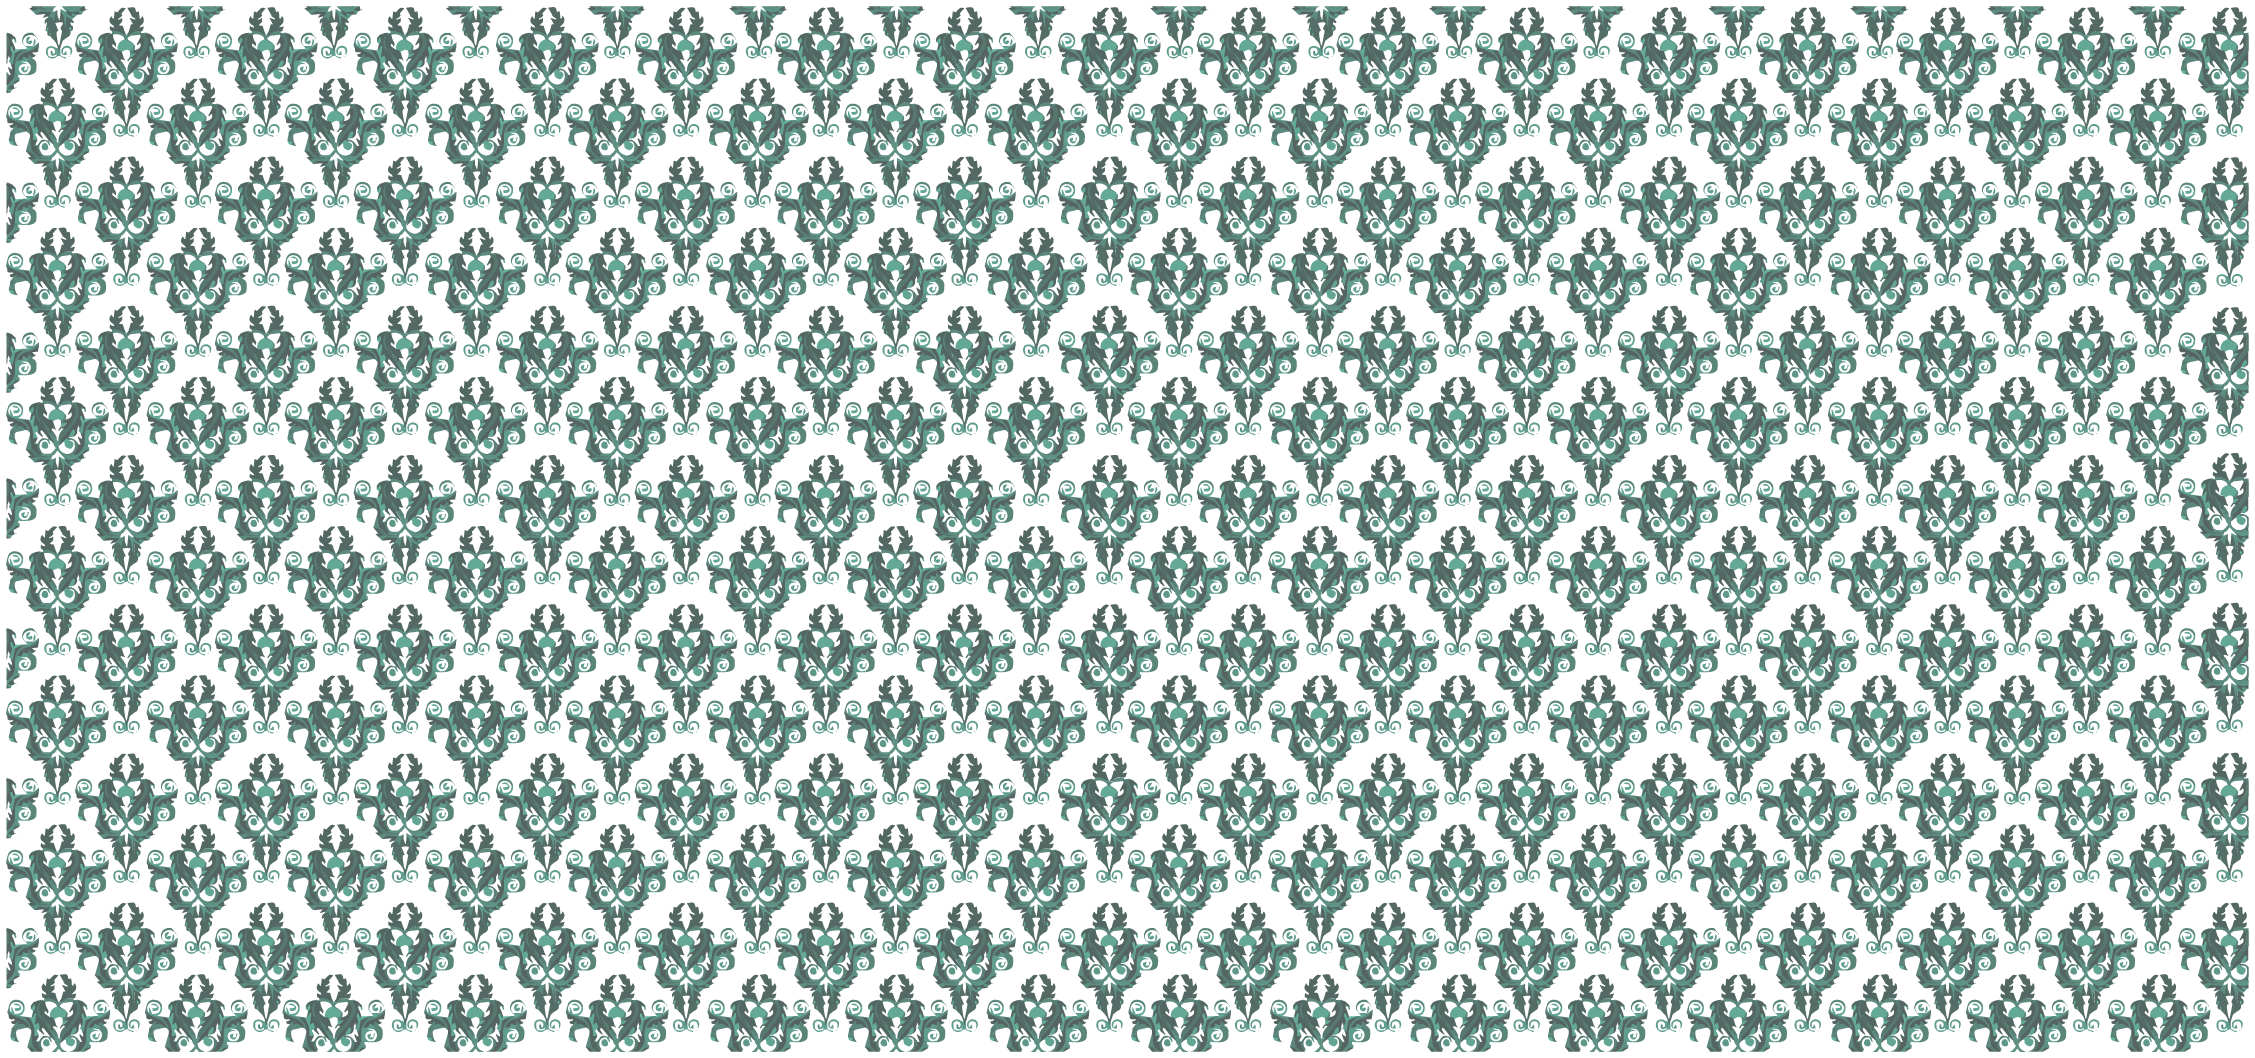
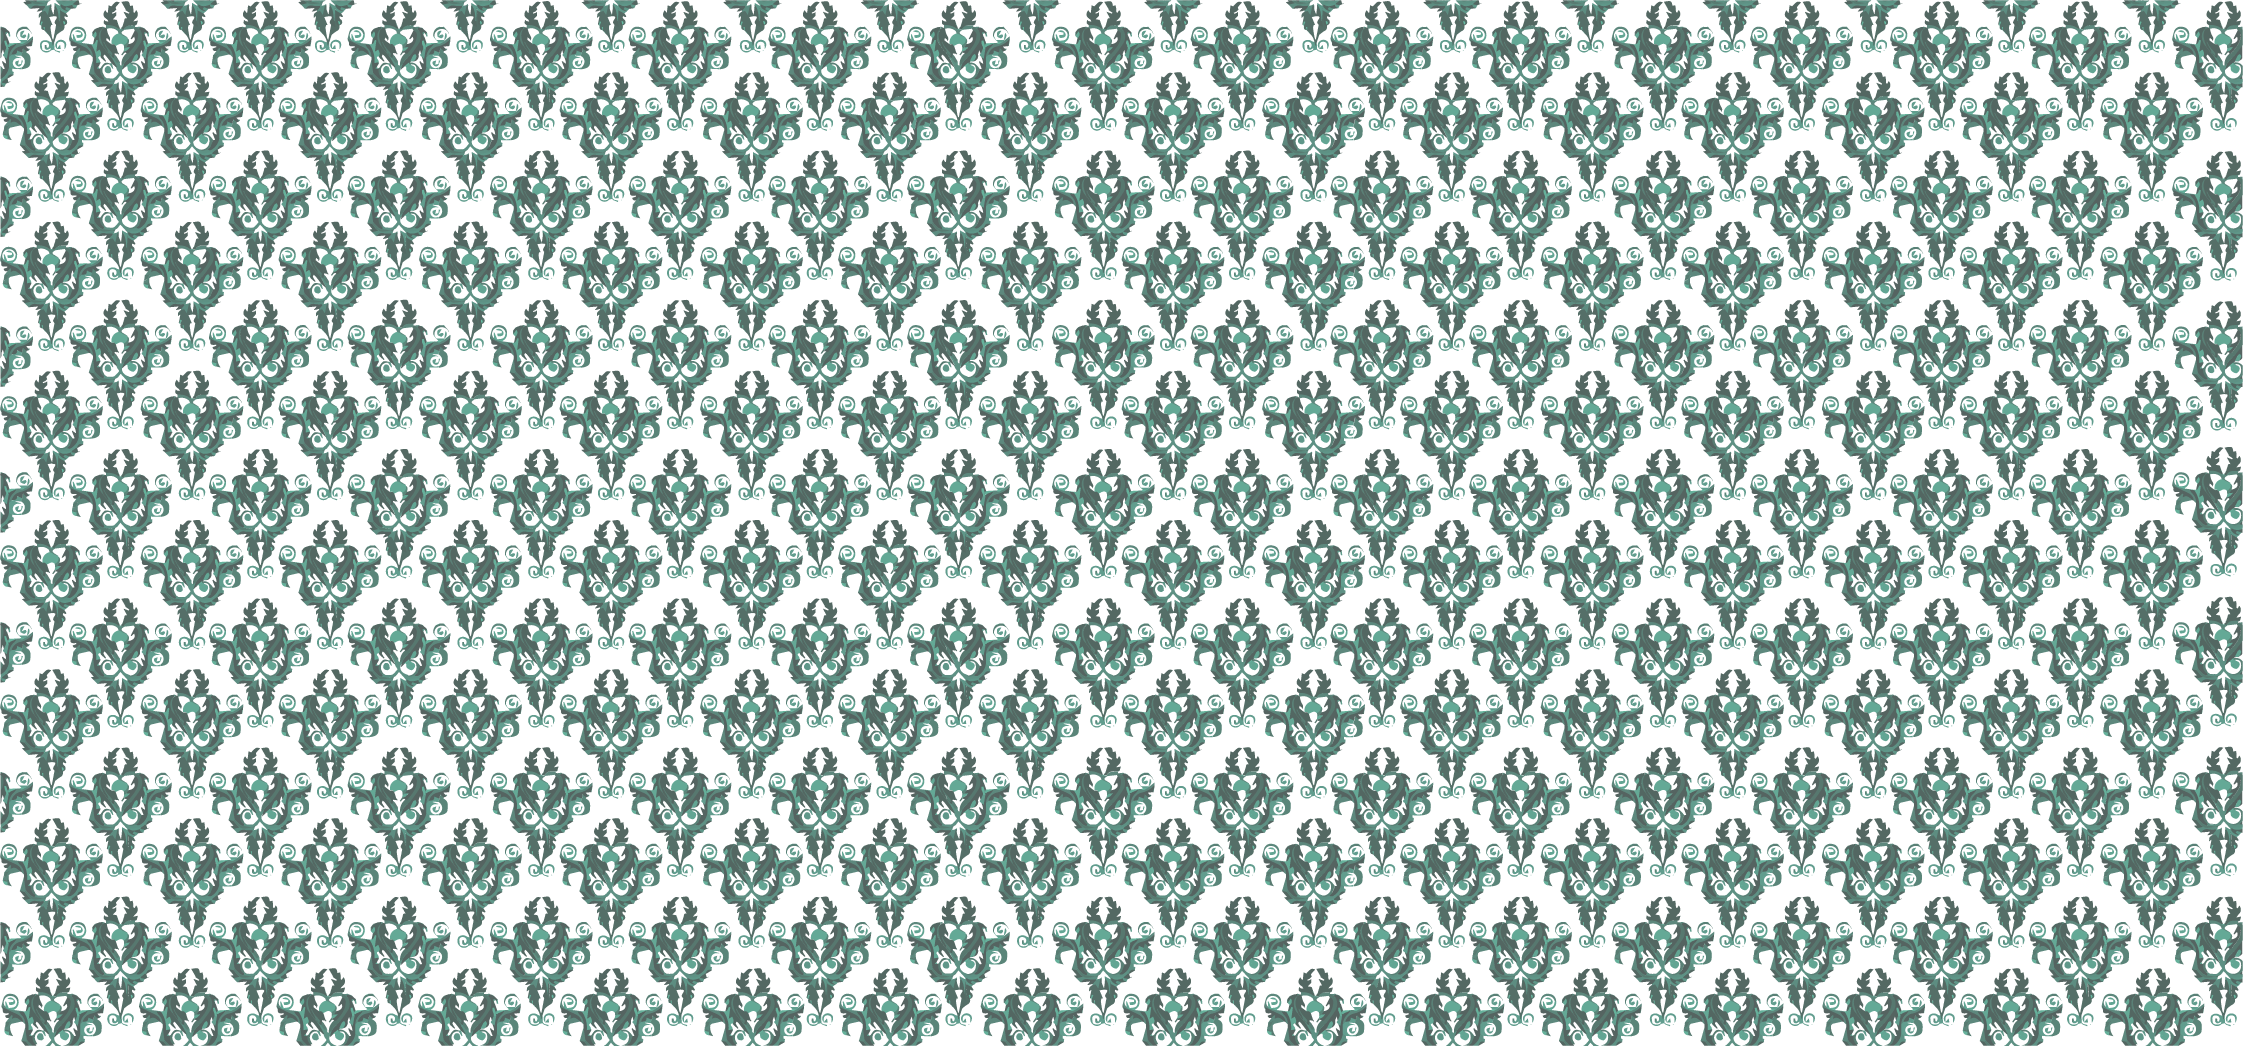
homepage css integration carousel

diff --git a/assets/components/carousel.js b/assets/components/carousel.js
@@ -1,0 +1,57 @@
+const carousel = {
+    init: function() {
+
+        console.log('carousel.js is charged');
+    },
+}
+
+// https://codepen.io/jibbon/pen/BoisC/
+$.global = new Object();
+
+$.global.item = 1;
+$.global.total = 0;
+
+$(document).ready(function() 
+{
+    var SlideCount = $('#slides li').length;
+	
+   $.global.item = 0;
+    $.global.total = SlideCount; 
+
+        for(var i=2; i<=SlideCount; i++) {
+
+                $("#slides li:nth-child("+i+")").addClass('dead');
+        }
+        
+            
+        $('#left').click(function() { Slide('back'); }); 
+        $('#right').click(function() { Slide('forward'); }); 
+                
+});
+
+function Slide(direction)
+{   
+    if (direction == 'back') { var $target = $.global.item - 1; }
+    if (direction == 'forward') { var $target = $.global.item + 1; }  
+    
+    if ($target == -1) { DoIt($.global.total-1); } 
+    else if ($target == $.global.total) { DoIt(0); }  
+    else { DoIt($target); }
+    
+}
+
+function DoIt(target)
+{
+    var $actualtarget = target+1;
+    
+    $("#slides li:nth-child("+$actualtarget+")").removeClass('dead');
+    $("#slides li:nth-child("+target+")").addClass('dead');
+
+    if (target == 0) { $("#slides li:nth-child("+$.global.total+")").addClass('dead'); }
+    if (target == $.global.total-1) { $("#slides li:nth-child(1)").addClass('dead'); }
+    
+    $.global.item = target;  
+    $('#count').html($.global.item+1);
+}
+
+  document.addEventListener('DOMContentLoaded', carousel.init());

diff --git a/assets/styles/home.css b/assets/styles/home.css
@@ -1,8 +1,55 @@
 .--background {
     height: 100vh;
-    background-color: #58a258;
+    background-color: #557067e6;
     background-image: url('../../public/images/bg_tapestry_green.png');
-    background-size: 50%;
+    background-size: 60%;
+}
+
+.--spotlight {
+    position: absolute;
+    height: 100%;
+    width: 100%;
+    background-image: radial-gradient( 
+        ellipse at top,
+        transparent 40%,
+        black 70%
+    );
+}
+
+.--frame-ovale {
+    background-image: url('../../public/images/frames/frame_o_1.png');
+    height: 40%;
+    background-repeat: no-repeat;
+    background-size: contain;
+}
+
+.--frame-rectangle {
+    background-image: url('../../public/images/frames/frame_r_2.png');
+    height: 30%;
+    width: 30%;
+    background-repeat: no-repeat;
+    background-size: contain;
+    position: relative;
+}
+
+.--frame-rectangle2 {
+    height: 30%;
+    width: 30%;
+    position: absolute;
+    z-index: 2;
+}
+
+.--frame-image {
+    position: absolute;
+    z-index: 3;
+    width: 100%;
+}
+
+.--frame-square {
+    background-image: url('../../public/images/frames/frame_s_1.png');
+    height: 30%;
+    background-repeat: no-repeat;
+    background-size: contain;
 }
 
 .--nav-container {

diff --git a/assets/styles/carousel.css b/assets/styles/carousel.css
@@ -1,0 +1,50 @@
+.--images-container {
+    display: flex;
+    justify-content: space-between;
+}
+
+#slides
+  {
+    height:100%;  
+    position:relative;
+    margin:0px;
+    padding:0px;
+  }
+
+#slides li {
+    position: absolute;
+    width: 100%;
+    z-index: 4;
+}
+
+.slide 
+  {
+    list-style:none;
+    position: relative;
+    float: left;
+    margin: 0;
+    padding: 15% 10%;
+    width: 100%;
+    text-align: center;
+    line-height: 300px; 
+    background-size: contain; 
+    background-repeat: no-repeat;
+    color:#fff;
+  }
+
+.dead { display: none; }
+
+.nav 
+  { 
+    position:absolute; 
+    z-index:9; 
+    top:40%; 
+    cursor:pointer; 
+    color:#fff; 
+    opacity:0.7; 
+    transition: all 0.66s ease; -webkit-transition: all 0.66s ease; 
+  }
+
+.nav:hover { opacity:1.0; }
+#left { left:3%; }
+#right { right:13%; }

diff --git a/assets/app.js b/assets/app.js
@@ -9,14 +9,14 @@
 import './styles/app.css';
 import './styles/form.css';
 import './styles/home.css';
+import './styles/carousel.css';
 import './styles/bootstrap.min.css';
 
 // start the Stimulus application
 import './bootstrap';
 
-import './components/collection.js'
-
-// require('./components/collection.js');
+import './components/collection.js';
+import './components/carousel.js';
 
 const app = {
     init: function() {

diff --git a/webpack.config.js b/webpack.config.js
@@ -22,6 +22,7 @@ Encore
      */
     .addEntry('app', './assets/app.js')
     .addEntry('collection', './assets/components/collection.js')
+    .addEntry('carousel', './assets/components/carousel.js')
 
     // enables the Symfony UX Stimulus bridge (used in assets/bootstrap.js)
     .enableStimulusBridge('./assets/controllers.json')
